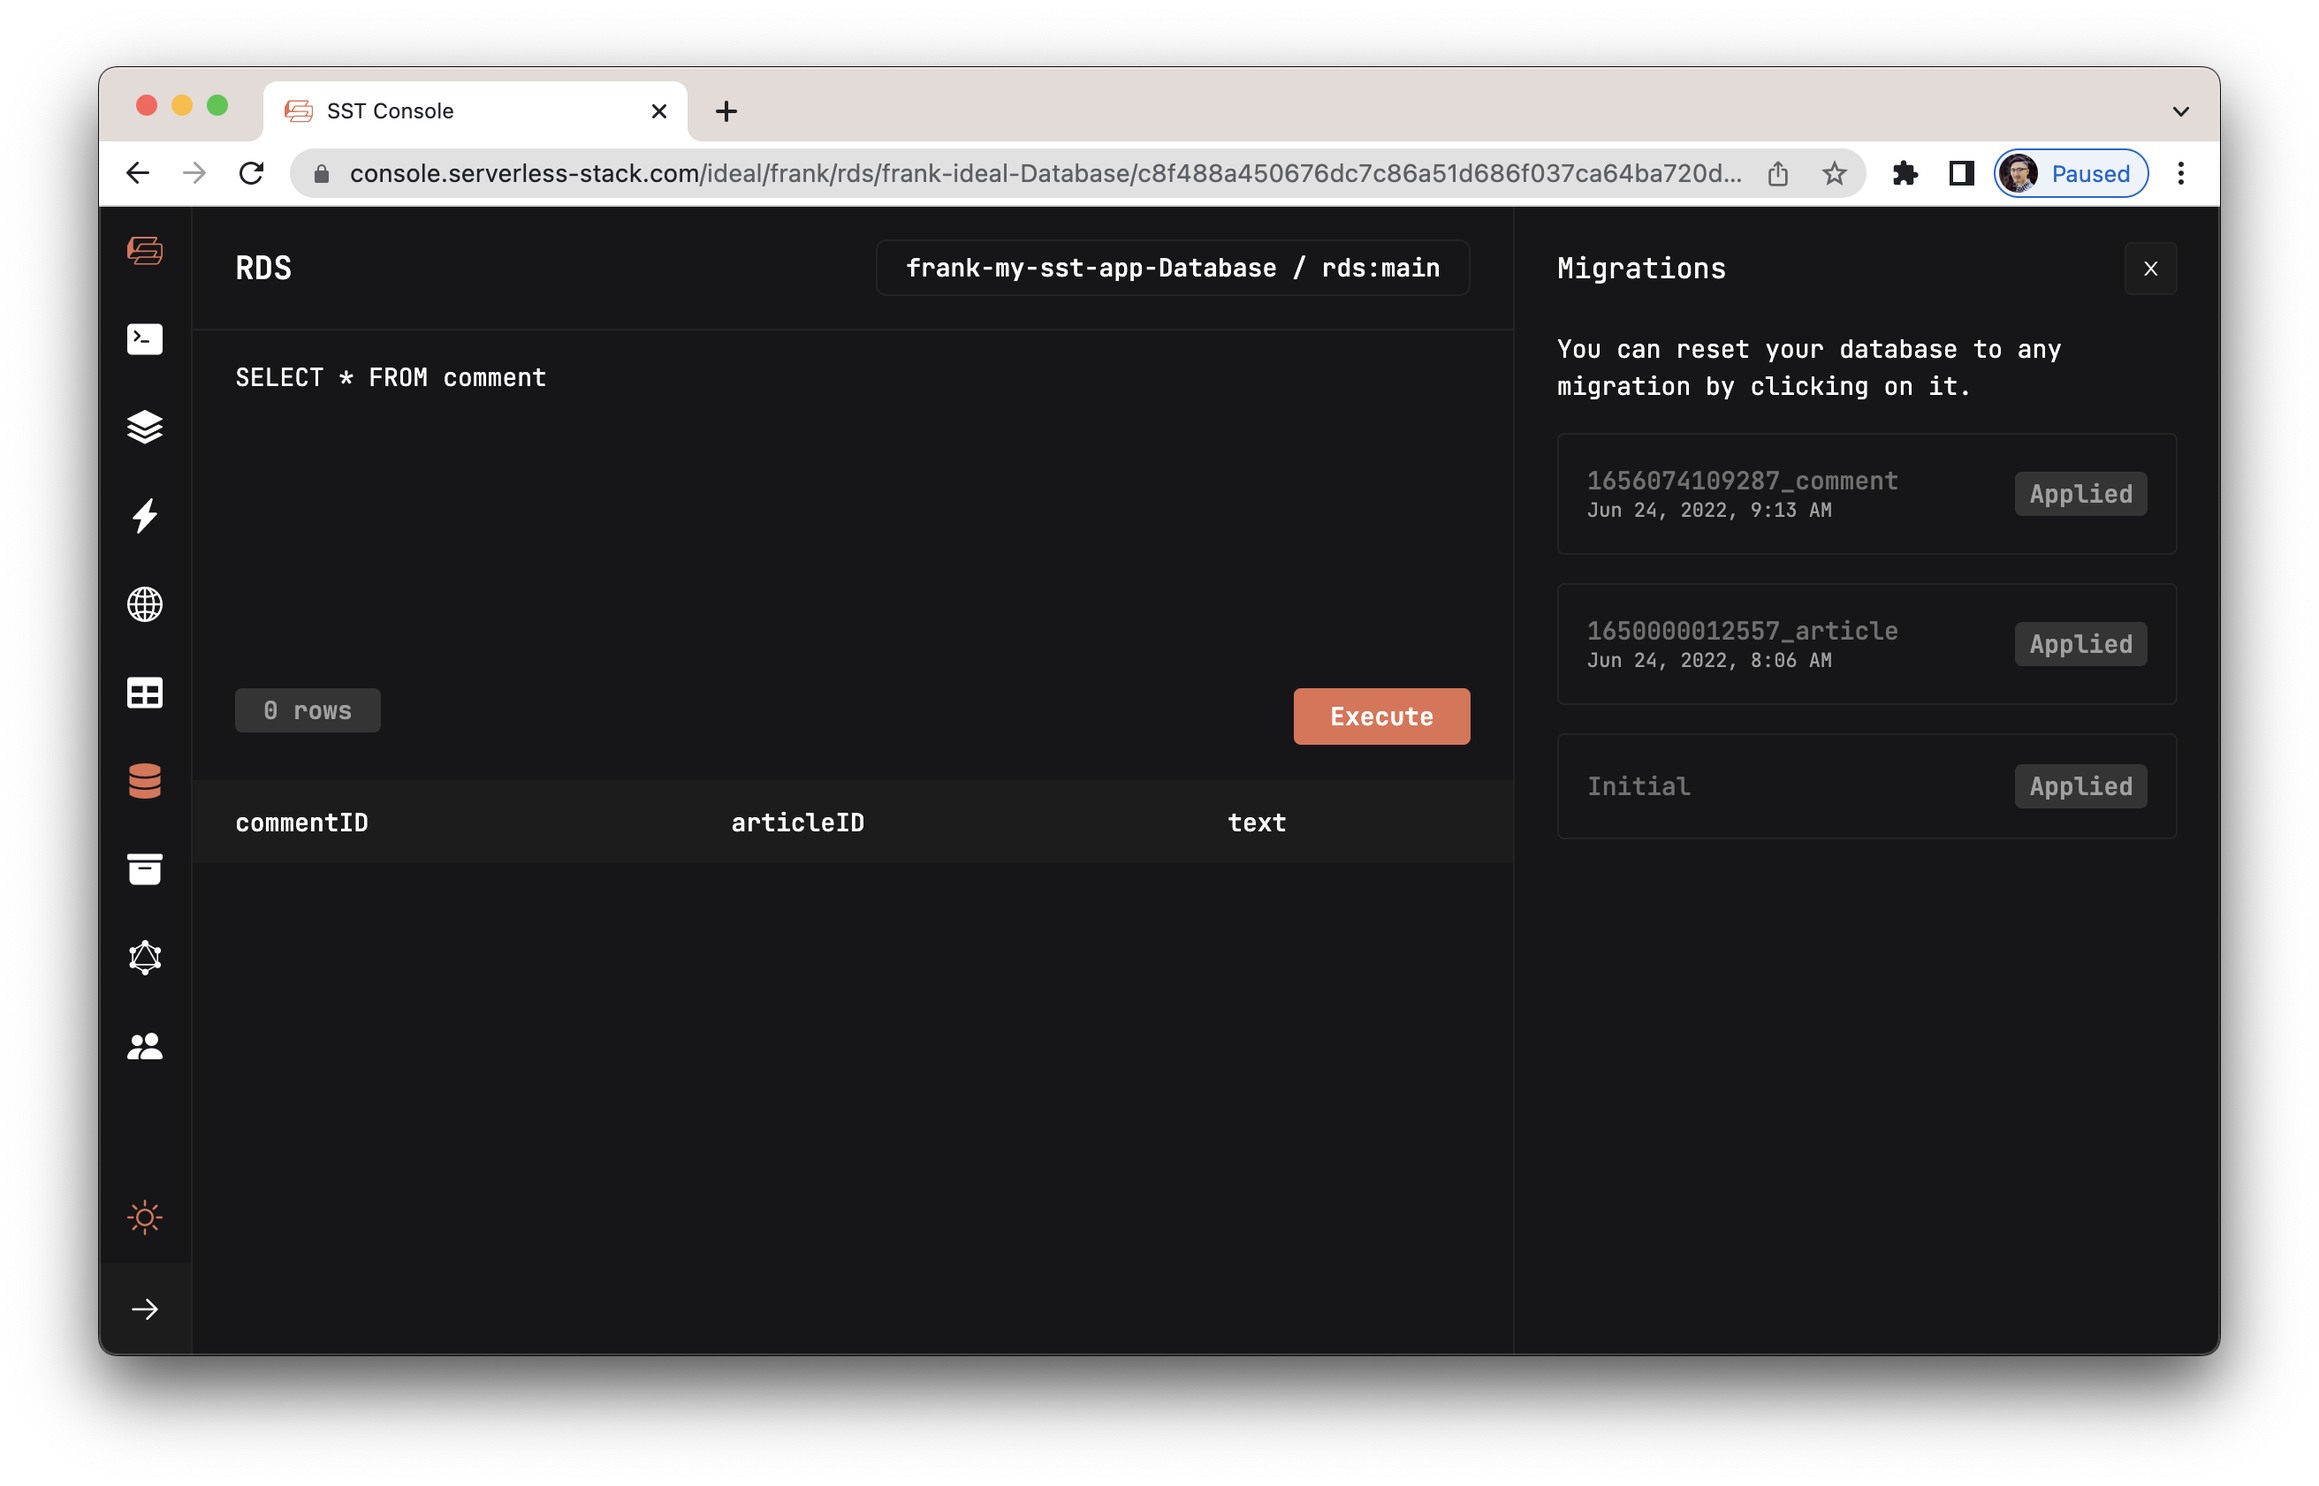
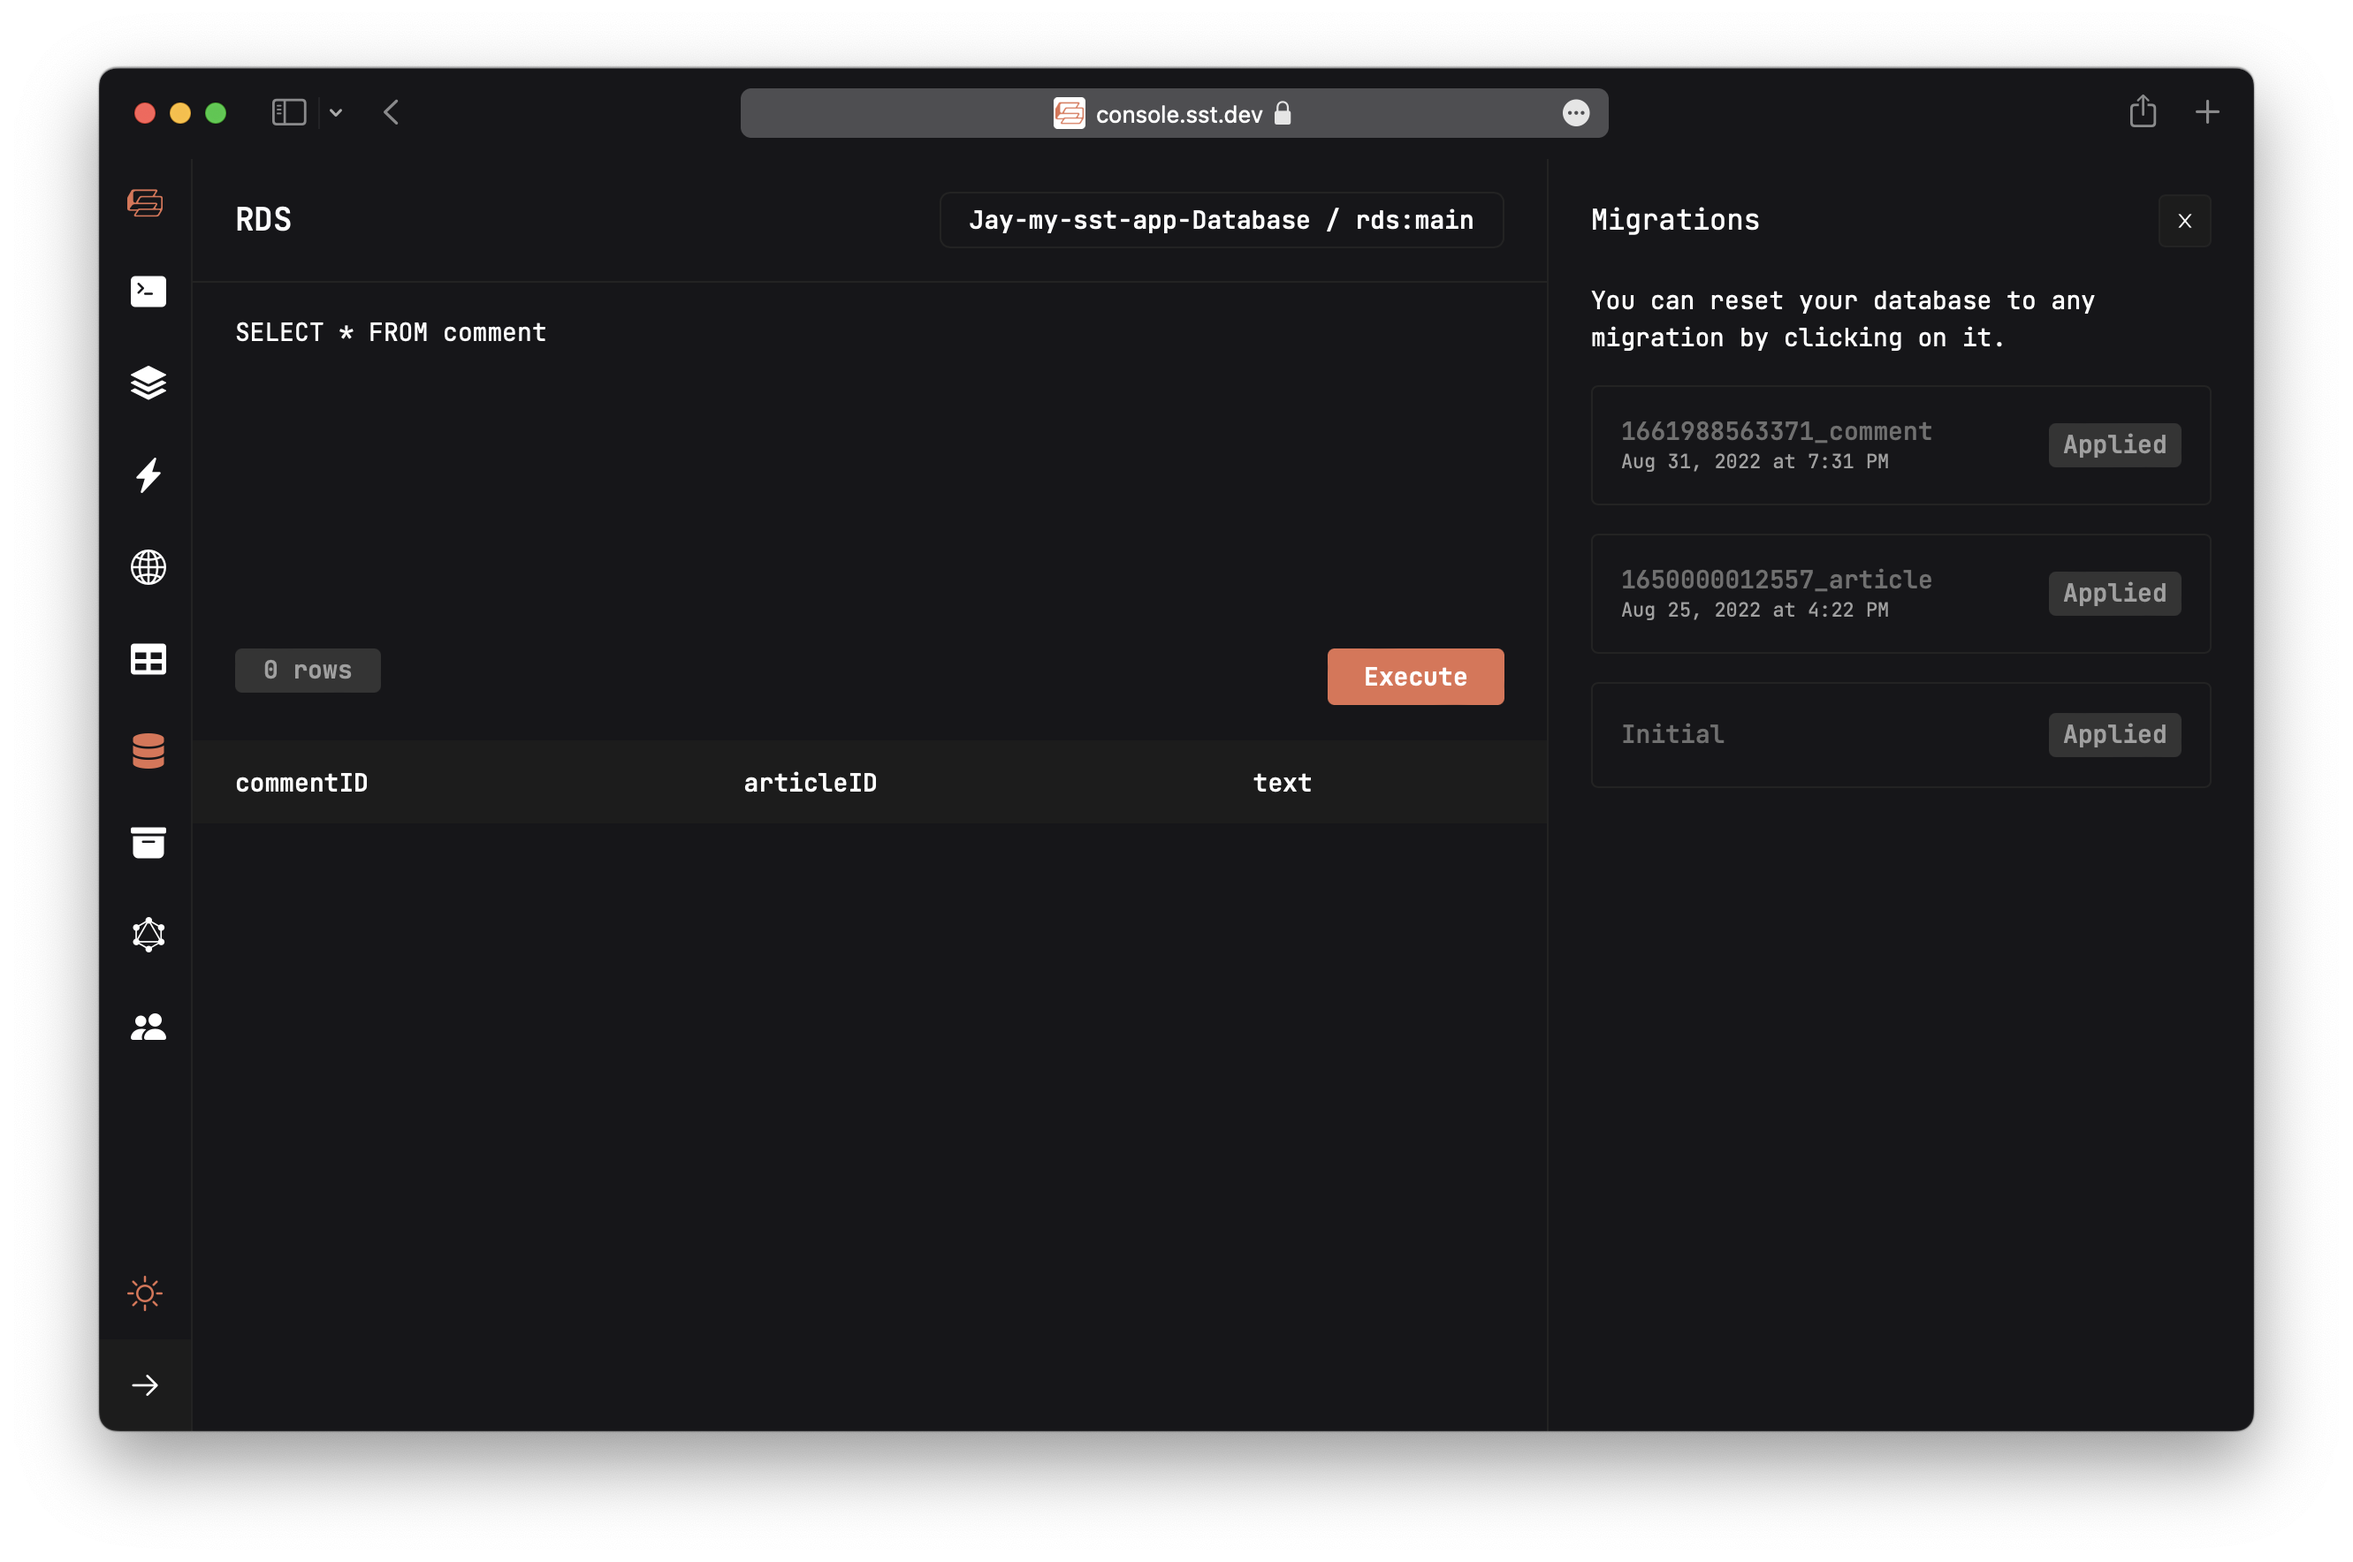
Edited db section

diff --git a/www/sidebars.js b/www/sidebars.js
@@ -30,10 +30,9 @@ module.exports = {
           collapsed: true,
           items: [
             "learn/domain-driven-design",
-            "learn/scaffold-business-logic",
-            "learn/database-options",
+            //"learn/database-options",
             "learn/write-to-postgresql",
-            "learn/write-to-dynamodb"
+            //"learn/write-to-dynamodb"
           ]
         },
         {

diff --git a/www/docs/learn/write-to-postgresql.md b/www/docs/learn/write-to-postgresql.md
@@ -4,17 +4,33 @@ title: Write to PostgreSQL
 
 import ChangeText from "@site/src/components/ChangeText";
 
-So you've decided you want to work with RDS PostgreSQL. Let's get started with storing our comments in our database.
-
-To do that we'll first create a new table for them.
-
-### Create a new migration
-
-We are going to create a new migration to make changes to our database.
+We are ready to add our new comments feature. We'll start by scaffolding the domain code first. As mentioned in the [last chapter](domain-driven-design.md), we'll add this to our `core` package.
 
 <ChangeText>
 
-Run this in the root of the project to create a new migration
+Open up `services/core/article.ts` and add the following two functions to the bottom of the file.
+
+</ChangeText>
+
+```js
+export async function addComment(articleID: string, text: string) {
+  // code for adding a comment to an article
+}
+
+export async function comments(articleID: string) {
+  // code for getting a list of comments of an article
+}
+```
+
+Before we can implement them, we'll need to create a new table to store the comments.
+
+### Create a new migration
+
+Let's create a new migration for this.
+
+<ChangeText>
+
+Run this in the **root of the project** to create a new migration
 
 </ChangeText>
 
@@ -24,7 +40,7 @@ npm run gen migration new
 
 <ChangeText>
 
-It'll ask you to name your migration. Type in `comment`.
+It'll ask you to name your migration. Type in **`comment`**.
 
 </ChangeText>
 
@@ -38,16 +54,16 @@ Once the migration is created, you should see the following in your terminal.
 ✔ Migration name · comment
 
 Loaded templates: _templates
-       added: services/migrations/1656074109287_comment.mjs
+       added: services/migrations/1661988563371_comment.mjs
 ```
 
 <ChangeText>
 
-Open up the new migration and replace its content with:
+Open up the new migration script and replace its content with:
 
 </ChangeText>
 
-```ts title="services/migrations/1656074109287_comment.mjs"
+```ts title="services/migrations/1661988563371_comment.mjs"
 import { Kysely } from "kysely";
 
 /**
@@ -56,9 +72,9 @@ import { Kysely } from "kysely";
 export async function up(db) {
   await db.schema
     .createTable("comment")
-    .addColumn("commentID", "text", col => col.primaryKey())
-    .addColumn("articleID", "text", col => col.notNull())
-    .addColumn("text", "text", col => col.notNull())
+    .addColumn("commentID", "text", (col) => col.primaryKey())
+    .addColumn("articleID", "text", (col) => col.notNull())
+    .addColumn("text", "text", (col) => col.notNull())
     .execute();
 }
 
@@ -70,7 +86,7 @@ export async function down(db) {
 }
 ```
 
-Applying this migration will create a  new table called `comment`. While undoing it will drop the table.
+This migration will create a new table called `comment`. While undoing the migration will drop the table.
 
 ### Run migration
 
@@ -84,9 +100,9 @@ Go to the RDS tab in SST Console and click **Apply** on our `comment` migration.
 
 ![Console run migration](/img/implement-rds/run-migration.png)
 
-Let's verify that the table has been created. Enter the following  in the query editor, and hit **Execute**.
+To verify that the table has been created; enter the following in the query editor, and hit **Execute**.
 
-``` sql
+```sql
 SELECT * FROM comment
 ```
 
@@ -96,7 +112,7 @@ You should see **0 rows** being returned.
 
 ### Query the table
 
-We are now ready to implement the `addComment` and `comments` functions that we created back in the [Scaffold Business Logic](scaffold-business-logic.md) chapter.
+We are now ready to implement the `addComment` and `comments` functions.
 
 <ChangeText>
 
@@ -124,48 +140,60 @@ export async function comments(articleID: string) {
 }
 ```
 
-Here we are using [Kysely](https://koskimas.github.io/kysely/) to run queries against our database.
+We are using [Kysely](https://koskimas.github.io/kysely/) to run typesafe queries against our database.
 
 :::info Behind the scenes
 There are a couple of interesting details here, let's dig in:
 
-1. `SQL.DB` is the Kysely instance from `services/core/sql.ts`.
+1. `SQL.DB` is the Kysely instance imported from `services/core/sql.ts`.
 
-   ``` ts title="services/core/sql.ts" {1}
+   ```ts title="services/core/sql.ts"
    export const DB = new Kysely<Database>({
      dialect: new DataApiDialect({
        mode: "postgres",
        driver: {
-         secretArn: process.env.RDS_SECRET_ARN!,
-         resourceArn: process.env.RDS_ARN!,
-         database: process.env.RDS_DATABASE!,
+         secretArn: Config.RDS_SECRET_ARN,
+         resourceArn: Config.RDS_ARN,
+         database: Config.RDS_DATABASE,
          client: new RDSDataService(),
        },
      }),
    });
    ```
 
-2. You might recall us setting the `process.env.` values back in the [Project Structure](project-structure.md#stacks) chapter. You can check the `stacks/Api.ts` for this.
+2. You might recall us talking about the `Config` values back in the [Project Structure](project-structure.md#stacks) chapter. They are passed in to our API in `stacks/Api.ts`.
 
-   ```ts title="stacks/Api.ts" {4-6}
+   ```ts title="stacks/Api.ts" {3}
    function: {
-     permissions: [db],
-     environment: {
-       RDS_SECRET_ARN: db.secretArn,
-       RDS_ARN: db.clusterArn,
-       RDS_DATABASE: db.defaultDatabaseName,
-     },
-   }
+    permissions: [db.rds],
+    config: [...db.parameters],
+   },
    ```
 
-3. The Kysely instance needs a `Database` type. This is coming from `services/core/sql.generated.ts`.
+   And were defined in the `stacks/Database.ts`.
+
+   ```ts title="stacks/Database.ts"
+   parameters: [
+     new Config.Parameter(stack, "RDS_SECRET_ARN", {
+       value: rds.secretArn,
+     }),
+     new Config.Parameter(stack, "RDS_DATABASE", {
+       value: rds.defaultDatabaseName,
+     }),
+     new Config.Parameter(stack, "RDS_ARN", {
+       value: rds.clusterArn,
+     }),
+   ],
+   ```
+
+3. The Kysely instance also needs a `Database` type. This is coming from `services/core/sql.generated.ts`.
 
    ```ts title="services/core/sql.generated.ts"
    export interface Database {
-     "article": article
-     "comment": comment
-     "kysely_migration": kysely_migration
-     "kysely_migration_lock": kysely_migration_lock
+     article: article;
+     comment: comment;
+     kysely_migration: kysely_migration;
+     kysely_migration_lock: kysely_migration_lock;
    }
    ```
 
@@ -173,15 +201,15 @@ There are a couple of interesting details here, let's dig in:
 
    ```ts
    export interface comment {
-     'articleID': string;
-     'commentID': string;
-     'text': string;
+     articleID: string;
+     commentID: string;
+     text: string;
    }
    ```
 
-4. The `sql.generated.ts` file, as you might've guessed in generated. Our infrastructure code auto-generates this when a new migration is run!
+4. The `sql.generated.ts` types file, as you might've guessed in auto-generated. Our infrastructure code generates this when a new migration is run!
 
-   We defined this back in `stacks/Database.ts`.
+   It's defined in `stacks/Database.ts`.
 
    ```ts title="stacks/Database.ts" {4}
    const rds = new RDS(stack, "rds", {
@@ -191,7 +219,9 @@ There are a couple of interesting details here, let's dig in:
      defaultDatabaseName: "main",
    });
    ```
-   Even though this file is generated, you should check it into Git. We'll be relying on it in later on in this tutorial.
+
+   Even though this file is auto-generated, you should check it into Git. We'll be relying on it later on in this tutorial.
+
 :::
 
 Now with our business logic and database queries implemented, we are ready to hook up our API.
